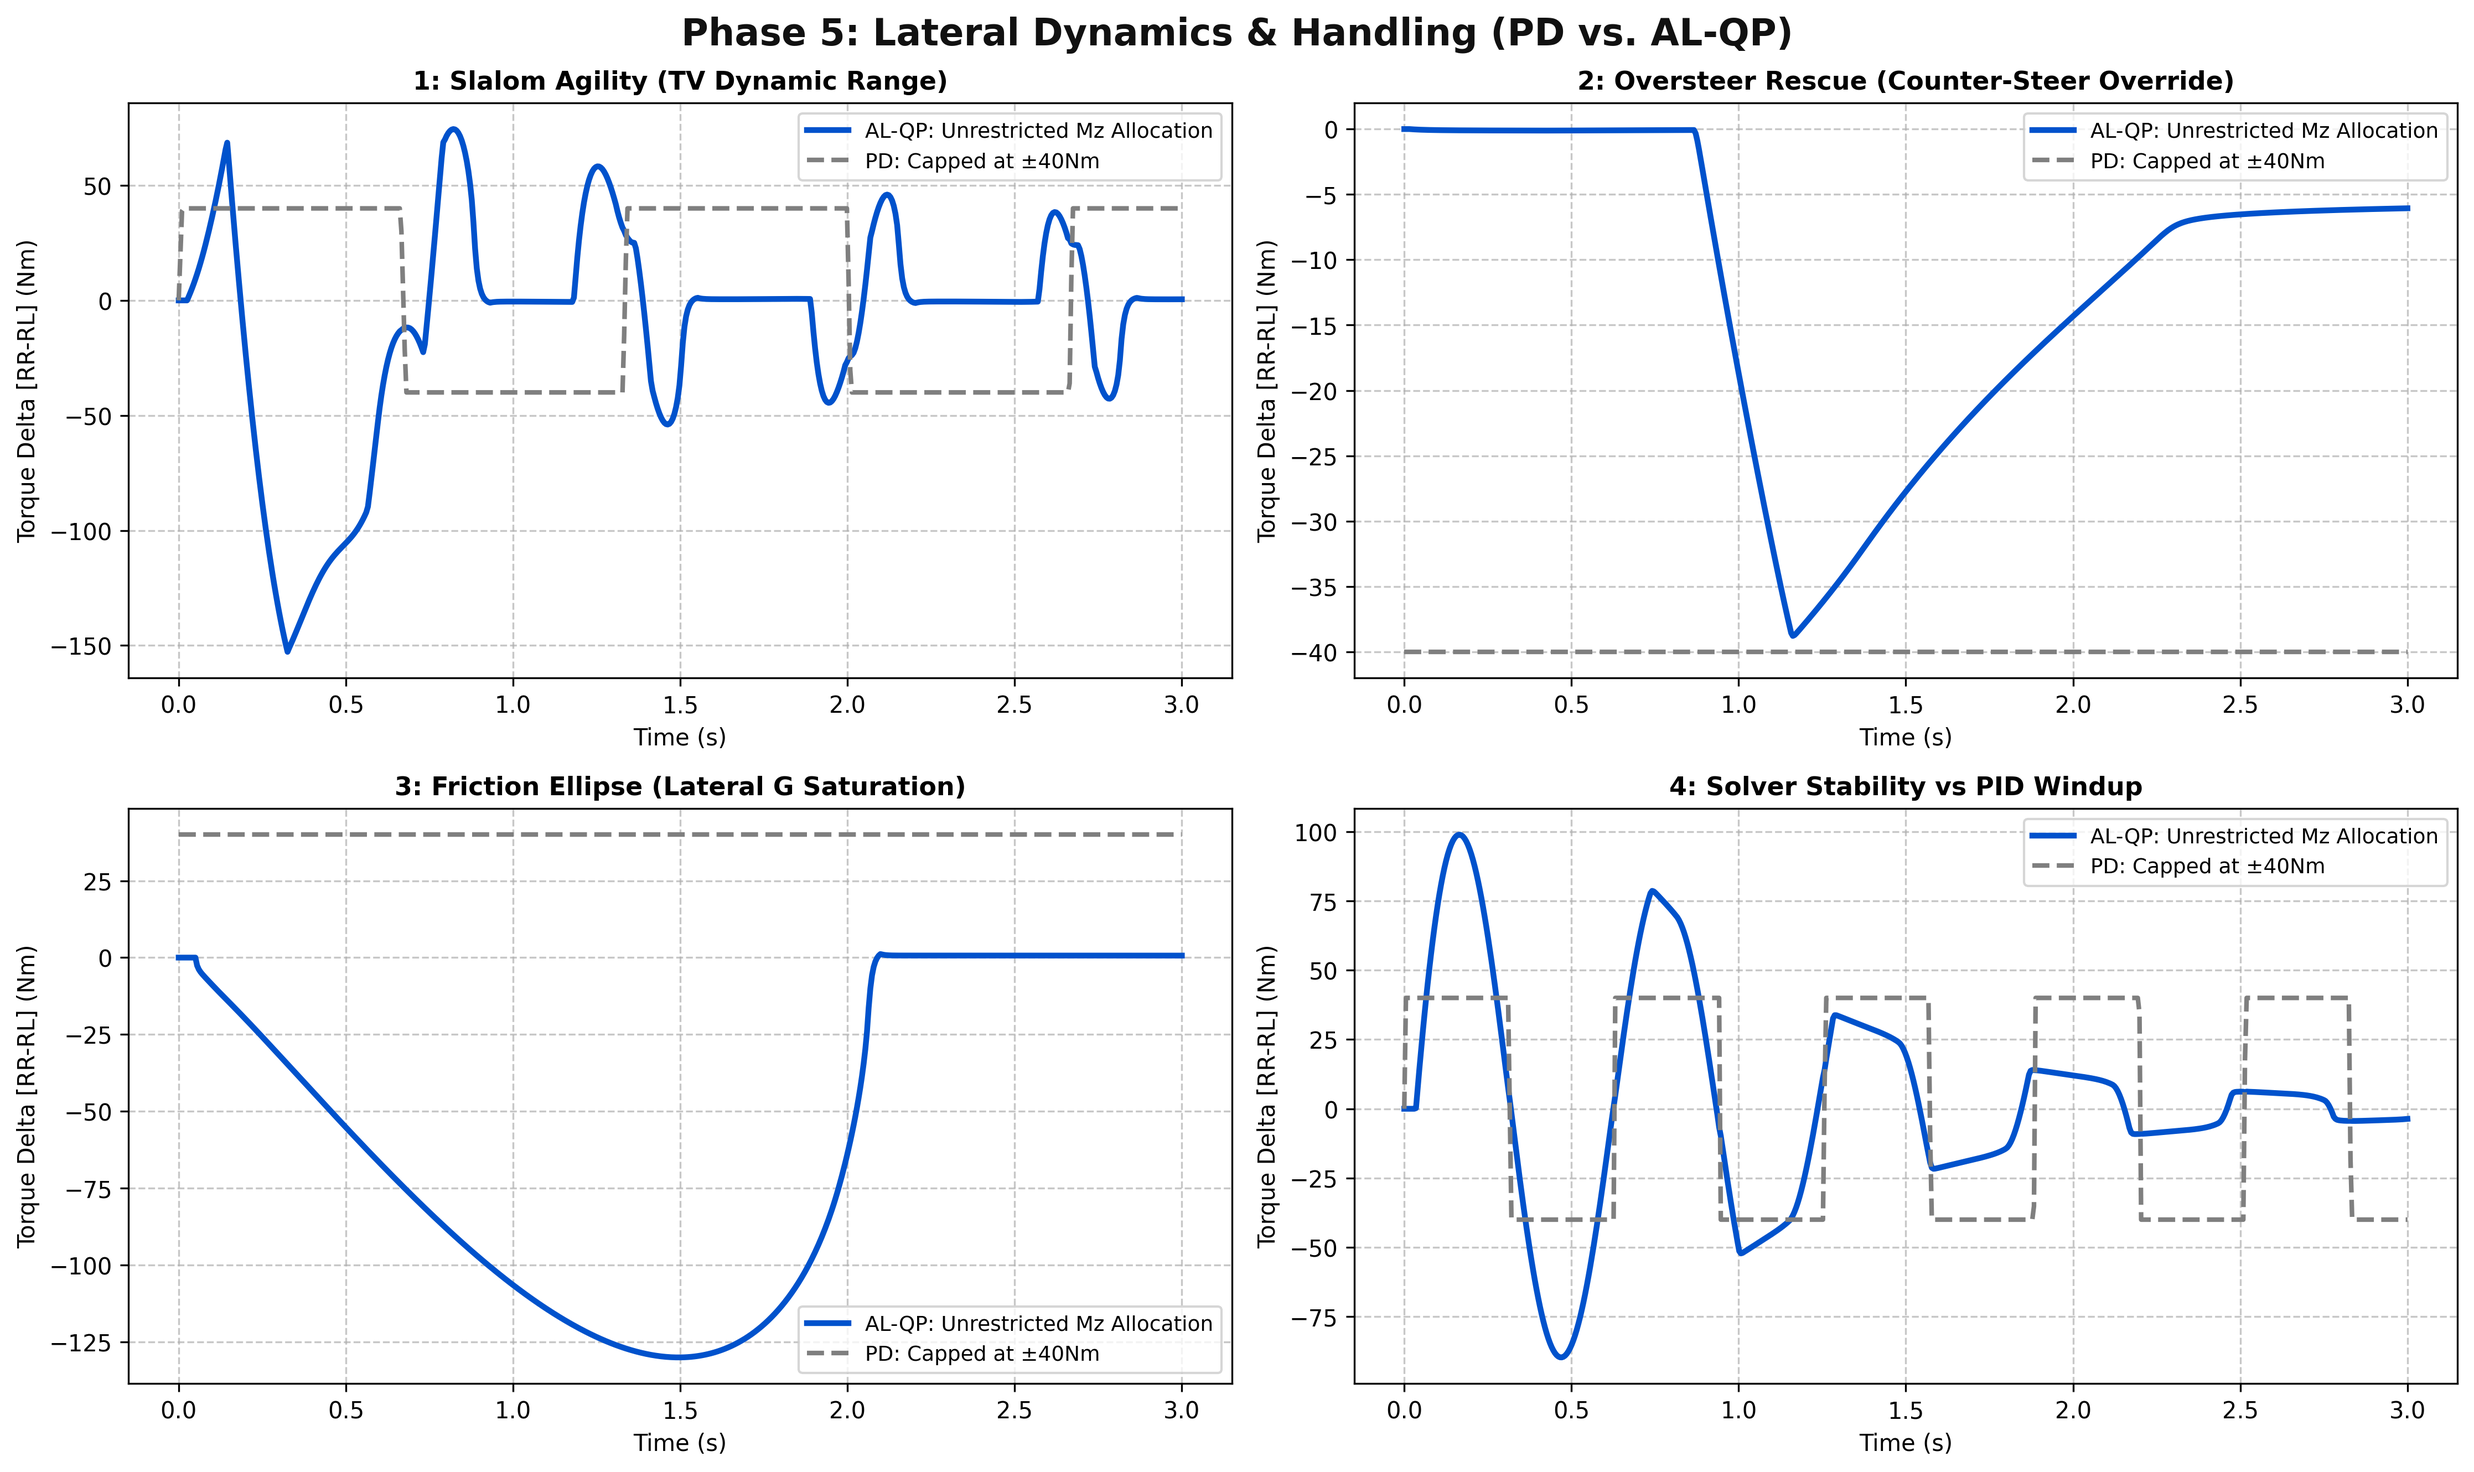
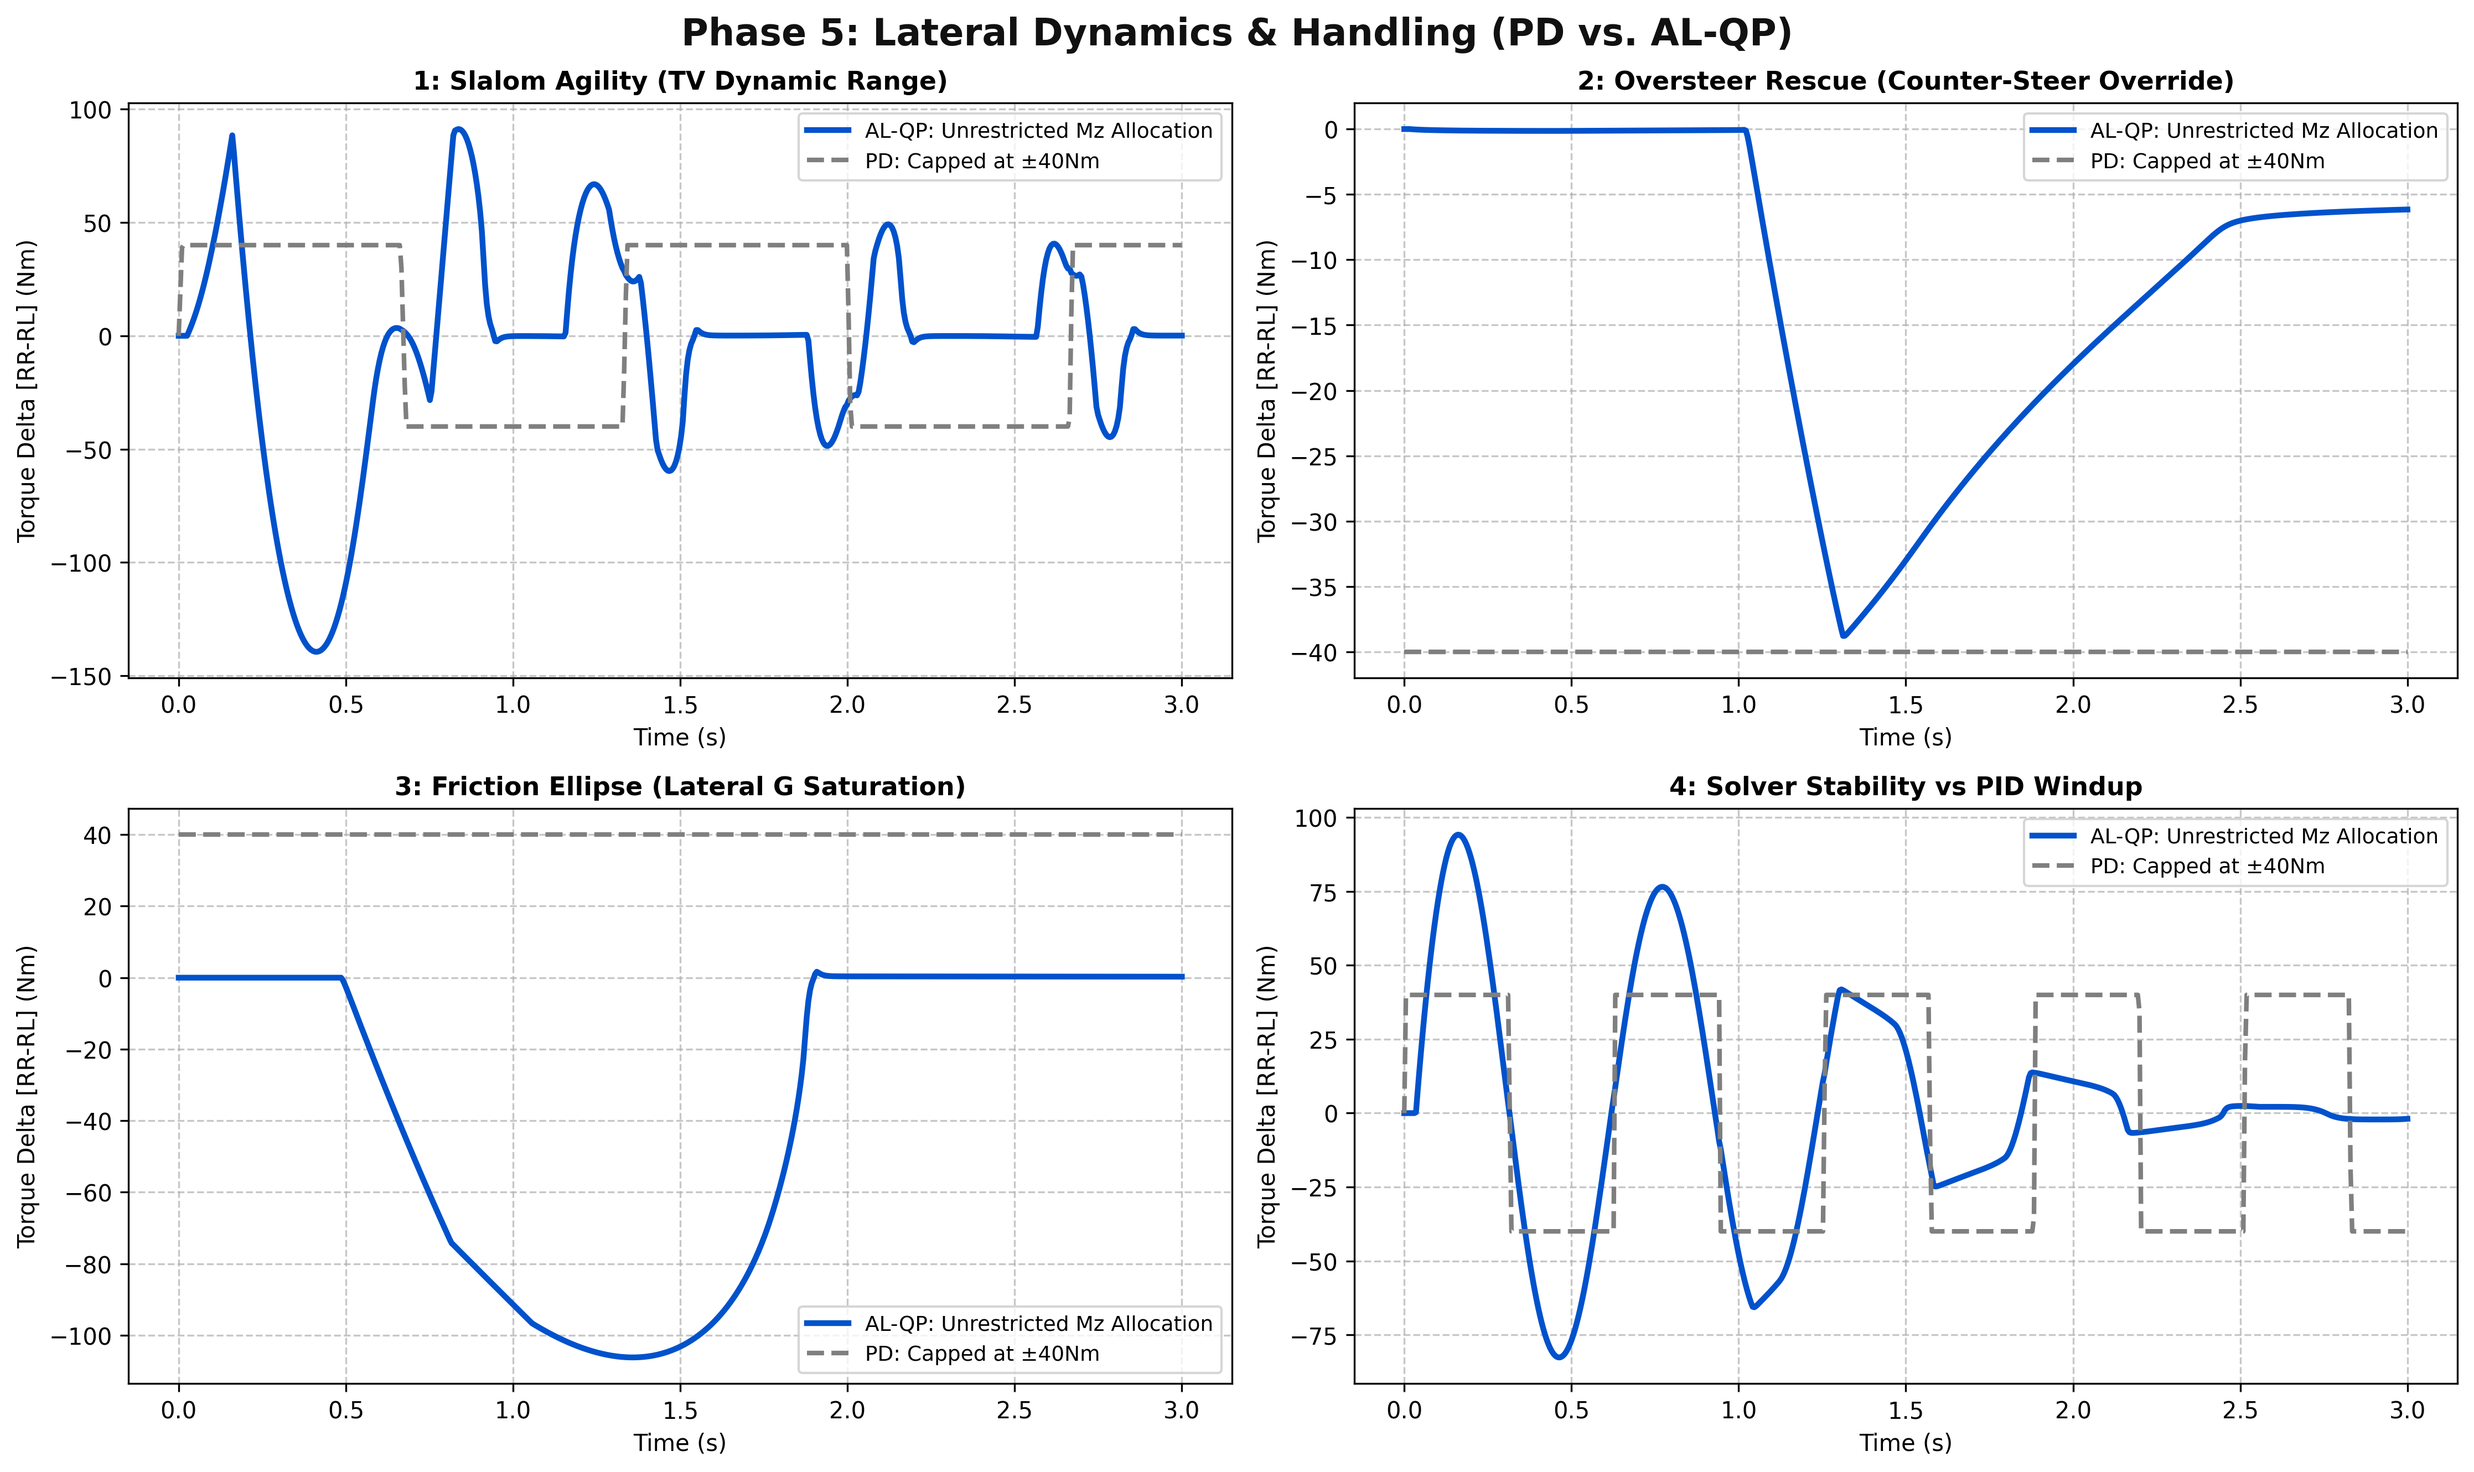
parcial fix

diff --git a/SOFTWARE/TeR_ECU/Libraries/TRQ_VECTORING/src/gp_torque_vectoring.c b/SOFTWARE/TeR_ECU/Libraries/TRQ_VECTORING/src/gp_torque_vectoring.c
@@ -295,6 +295,21 @@ void gp_tv_step(
         t_cmd_out[i] = tv_final;
     }
 
+    // Post-solver coupled proportional rescale:
+    // Guarantees combined rear-axle magnitude (|T_RL| + |T_RR|) respects the total
+    // regen budget even when Mz demand pushes one wheel positive (drive) while the
+    // other regens. Proportional scaling preserves the TV ratio.
+    if (rg->enable) {
+        float total_mag = fabsf(t_cmd_out[GP_RL]) + fabsf(t_cmd_out[GP_RR]);
+        if (total_mag > rg->max_total_trq && total_mag > 1e-3f) {
+            float scale = rg->max_total_trq / total_mag;
+            t_cmd_out[GP_RL] *= scale;
+            t_cmd_out[GP_RR] *= scale;
+            state->t_qp_prev[GP_RL] = t_cmd_out[GP_RL];
+            state->t_qp_prev[GP_RR] = t_cmd_out[GP_RR];
+        }
+    }
+
     // Low-level TC Step
     gp_tc_step(t_cmd_out, omega, vx, vy, wz_corr, fz_est, dt, &state->tc);
     
